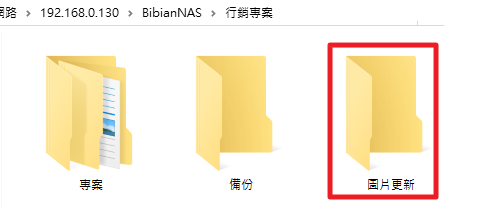
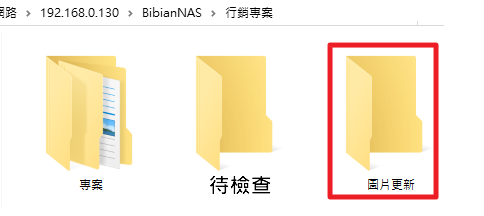
office four

Changed region(s): [[0.4339, 0.8056, 0.5579, 0.9167]]

diff --git a/bibianImgsRule.html b/bibianImgsRule.html
@@ -199,7 +199,7 @@
               <br>
               <br>
               <i class="step"> ● 第三項<br /> </i>
-              <span class="ps-4">通知切版(提供路徑)，切版者完成後，自行移除</span><br>
+              <span class="ps-4">通知切版(提供路徑)，切版者完成後放入"待檢查"資料夾中，行銷確認後自行刪除"待檢查"資料</span><br>
               <img class="ps-4 w-80" src="designer/file_05.png" alt="" />
             </p>
           </div>
